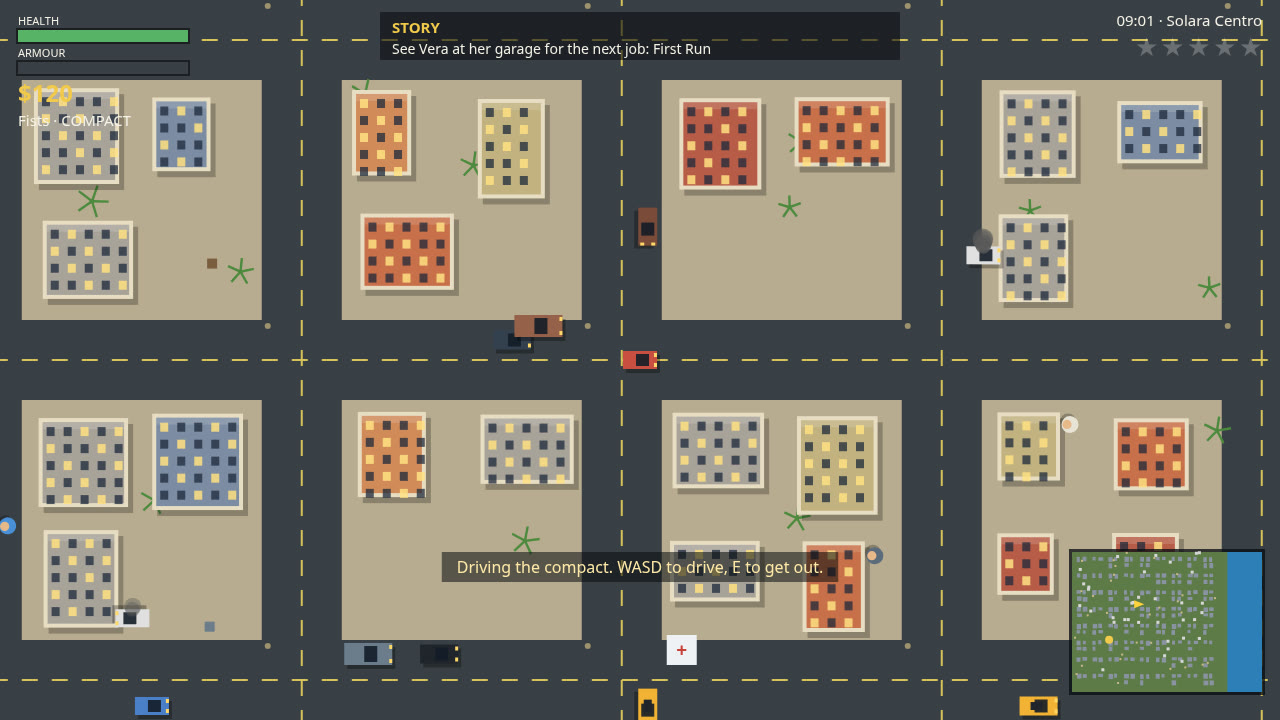
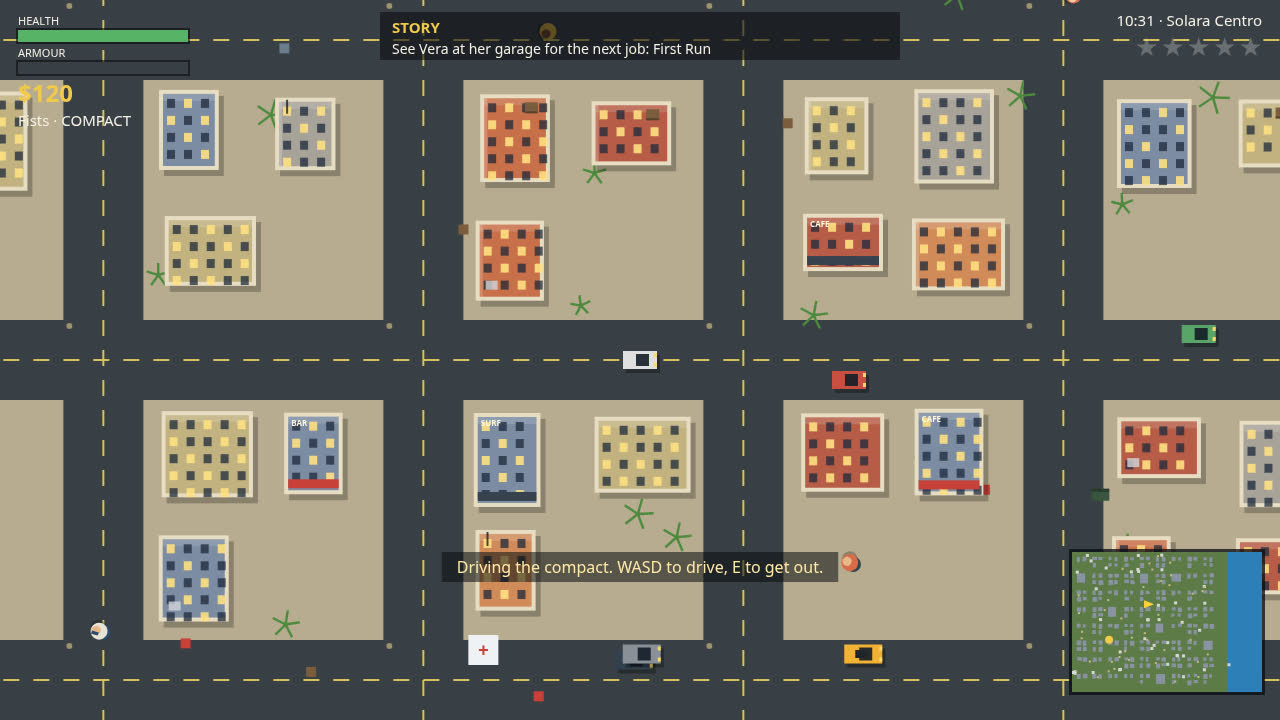
Restage screenshots: dusk cover, night chase, Marina Heist escape; extend self-test

diff --git a/game/src/shots.js b/game/src/shots.js
@@ -1,10 +1,14 @@
 // Deterministic screenshot scenes behind ?shot=title|drive|chase|mission, staged in the real
 // simulation, and the ?test=1 self-test that drives the real sim through a scripted sequence.
+// v2 staging: a dusk rush-hour downtown behind the title, a daylight drive, a four-star chase
+// after dark (lit windows, lamp glow, headlights, siren wash), and the Marina Heist escape.
 import { STEP } from './config.js';
 import { roadCentreX, roadCentreY } from './city.js';
 import { scriptedInput } from './input.js';
 import { SCREEN_PLAY, SCREEN_TITLE } from './render.js';
 import { saveGame, loadSaveData, applySave, snapshotSave } from './save.js';
+import { CAR_TYPES, makeCar, stepCarPhysics } from './vehicles.js';
+import { makePed } from './pedestrians.js';
 
 function runSteps(world, n, input, aim) {
   for (let i = 0; i < n; i += 1) world.step(STEP, input || scriptedInput(), aim || world.player);
@@ -16,32 +20,74 @@ function putPlayerInCar(world) {
   runSteps(world, 1, scriptedInput({ interact: true }));
   return world.player.car || car;
 }
+function putPlayerInSportsCar(world, x, y, angle) {
+  // the getaway scenes need the sports car: its 470 top speed outruns the police target speed,
+  // so Marco stays fast and the shot catches a chase, not a bust
+  let car = world.cars.find((c) => c.parked && c.type === 'sports');
+  if (!car) { car = makeCar('sports', x, y, angle, world.random, { parked: true }); world.cars.push(car); }
+  car.x = x; car.y = y; car.angle = angle; car.speed = 0;
+  world.player.x = x; world.player.y = y + 30;
+  runSteps(world, 1, scriptedInput({ interact: true }));
+  return world.player.car || car;
+}
 export function stageShot(name, world) {
   if (name === 'drive') {
+    world.clockMinutes = 10.5 * 60; // late morning, full colour
     putPlayerInCar(world);
     runSteps(world, 150, scriptedInput({ moveY: -1 }));
     return { screen: SCREEN_PLAY };
   }
   if (name === 'chase') {
+    world.clockMinutes = 21.6 * 60; // night: the city lights do the talking
     world.missions.beginStoryAt(0);
-    putPlayerInCar(world);
-    world.setHeat(105); // three stars
-    runSteps(world, 170, scriptedInput({ moveY: -1, moveX: 0.2 }));
+    putPlayerInSportsCar(world, roadCentreX(1), roadCentreY(3), 0);
+    world.setHeat(140); // four stars
+    // two units already on his tail, close enough to stay in frame while he outruns them
+    world.cars.push(makeCar('police', world.player.x - 260, roadCentreY(3) - 26, 0, world.random, { traffic: false }));
+    world.cars.push(makeCar('police', world.player.x - 370, roadCentreY(3) + 30, 0, world.random, { traffic: false }));
+    runSteps(world, 150, scriptedInput({ moveY: -1 }));
     return { screen: SCREEN_PLAY };
   }
   if (name === 'mission') {
-    world.player.weapon = 'pistol'; world.player.ammo = 60;
-    world.missions.beginStoryAt(3); // M4 Dockside Business
-    world.player.x = world.city.stash.x + 30; world.player.y = world.city.stash.y + 26;
-    runSteps(world, 30, scriptedInput());
-    const enemy = world.peds.find((p) => p.enemy && !p.dead);
-    const aim = enemy || world.player;
-    runSteps(world, 40, scriptedInput({ shoot: true }), aim);
-    world.say('Dario Venn', 'Venn sends his regards, Reyes. You should have stayed a driver.');
+    // the Marina Heist escape: grab the case, trip the 4-star response, run west into the night
+    world.clockMinutes = 20.8 * 60;
+    world.missions.beginStoryAt(4); // M5 Marina Heist
+    world.player.x = world.city.marinaOffice.x; world.player.y = world.city.marinaOffice.y;
+    runSteps(world, 2, scriptedInput());
+    // the marina streets are empty at this hour: no civilian traffic, and no parked cars in the
+    // escape corridor (they park half in the driving lane), so the run is decided by Marco's
+    // right foot and the two units behind him, not by a random crash
+    world.cars = world.cars.filter((car) => !car.traffic);
+    world.cars = world.cars.filter((car) => !(Math.abs(car.y - roadCentreY(6)) < 80 && car.x > roadCentreX(3) && car.x < roadCentreX(9)));
+    putPlayerInSportsCar(world, roadCentreX(8), roadCentreY(6), Math.PI);
+    world.cars.push(makeCar('police', world.player.x + 330, roadCentreY(6) - 26, Math.PI, world.random, { traffic: false }));
+    world.cars.push(makeCar('police', world.player.x + 440, roadCentreY(6) + 30, Math.PI, world.random, { traffic: false }));
+    runSteps(world, 140, scriptedInput({ moveY: -1 }));
+    world.say('Vera Calloway', 'Every cop in Solara is awake. Break their line of sight and stay gone.');
     return { screen: SCREEN_PLAY };
   }
-  // title: a downtown vista behind the title panel
+  // title: rush hour downtown at dusk behind the title panel — a ring of traffic on the two
+  // roads through Marco's junction (one of them a hauler), so the frame around the panel is busy
+  world.clockMinutes = 17.8 * 60;
   world.player.x = roadCentreX(4); world.player.y = roadCentreY(3);
+  const ring = [
+    { type: 'sedan', x: roadCentreX(4) - 20, y: world.player.y - 470, angle: Math.PI / 2 },
+    { type: 'taxi', x: roadCentreX(4) + 20, y: world.player.y - 290, angle: -Math.PI / 2 },
+    { type: 'compact', x: roadCentreX(4) - 20, y: world.player.y + 250, angle: Math.PI / 2 },
+    { type: 'truck', x: roadCentreX(4) + 20, y: world.player.y + 430, angle: -Math.PI / 2 },
+    { type: 'sports', x: world.player.x - 560, y: roadCentreY(3) - 20, angle: 0 },
+    { type: 'sedan', x: world.player.x - 380, y: roadCentreY(3) + 20, angle: Math.PI },
+    { type: 'compact', x: world.player.x + 390, y: roadCentreY(3) - 20, angle: 0 },
+    { type: 'hauler', x: world.player.x + 570, y: roadCentreY(3) + 20, angle: Math.PI },
+  ];
+  for (const spot of ring) {
+    const car = makeCar(spot.type, spot.x, spot.y, spot.angle, world.random, { traffic: true, driver: { name: 'driver' } });
+    car.ai.dirx = Math.cos(spot.angle); car.ai.diry = Math.sin(spot.angle);
+    world.cars.push(car);
+  }
+  for (let i = 0; i < 16; i += 1) {
+    world.peds.push(makePed(world.player.x + world.random.range(-560, 560), world.player.y + world.random.range(-320, 320), world.random));
+  }
   runSteps(world, 90, scriptedInput());
   return { screen: SCREEN_TITLE };
 }
@@ -77,6 +123,39 @@ export function runSelfTest(world) {
     const data = loadSaveData();
     applySave(world, data);
     check('save/load round-trip restores cash and progress', JSON.stringify(snapshotSave(world)) === snap);
+    // v2 heavy class: a hauler under full throttle tops out below a sedan, every time
+    const hauler = makeCar('hauler', 500, 500, 0, world.random, {});
+    const sedan = makeCar('sedan', 500, 700, 0, world.random, {});
+    for (let i = 0; i < 300; i += 1) { stepCarPhysics(hauler, STEP, 1, 0, false); stepCarPhysics(sedan, STEP, 1, 0, false); }
+    check('heavy class: the hauler is slower than a sedan', CAR_TYPES.hauler.top < CAR_TYPES.sedan.top && hauler.speed < sedan.speed && hauler.speed > 120);
+    // v2 world dressing: the generated city carries the new building kinds and beach umbrellas
+    const kinds = new Set(world.city.buildings.map((b) => b.kind));
+    check('city variety: shops, houses and warehouses are generated', kinds.has('shop') && kinds.has('house') && kinds.has('warehouse') && world.city.props.some((p) => p.kind === 'umbrella'));
+    // v2 chop shop: steal the marked car, deliver it to the garage, get base plus damage bonus
+    world.missions.startSide('chop');
+    check('chop shop side job starts', !!world.missions.state.active && world.missions.state.active.def.id === 'side-chop');
+    const chopCar = world.missions.state.markedCar;
+    const chopCash = world.player.cash;
+    world.player.x = chopCar.x - 30; world.player.y = chopCar.y;
+    runSteps(world, 1, scriptedInput({ interact: true }));
+    const inChopCar = world.player.car === chopCar;
+    chopCar.x = world.city.garage.x; chopCar.y = world.city.garage.y;
+    world.player.x = chopCar.x; world.player.y = chopCar.y;
+    runSteps(world, 1, scriptedInput()); // exactly one step: the delivery lands, and no idle step at the garage auto-starts the next story job before the series test below
+    check('chop shop delivery pays base plus damage bonus', inChopCar && world.missions.state.sideCounts.chop === 1 && world.player.cash >= chopCash + 220);
+    // v2 street series: six checkpoints plus the garage finish, all hittable in order
+    world.missions.startSide('series');
+    check('street series starts with seven points', !!world.missions.state.active && world.missions.state.active.def.id === 'side-series' && world.missions.state.race.pts.length === 7);
+    runSteps(world, 1, scriptedInput({ interact: true })); // step out of the chop car (series already active, so no story auto-start)
+    let guard = 0;
+    while (world.missions.state.active && guard < 40) {
+      const race = world.missions.state.race;
+      if (!race || !race.pts[race.idx]) break;
+      world.player.x = race.pts[race.idx].x; world.player.y = race.pts[race.idx].y;
+      runSteps(world, 2, scriptedInput());
+      guard += 1;
+    }
+    check('street series completes all checkpoints', world.missions.state.sideCounts.series === 1);
   } catch (err) {
     lines.push('FAIL exception: ' + (err && err.message));
   }
